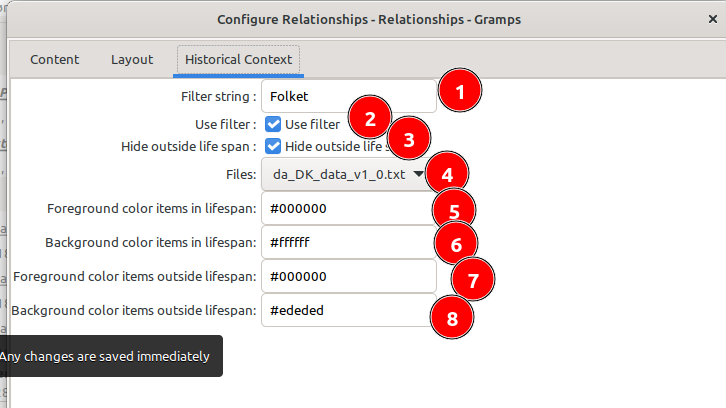
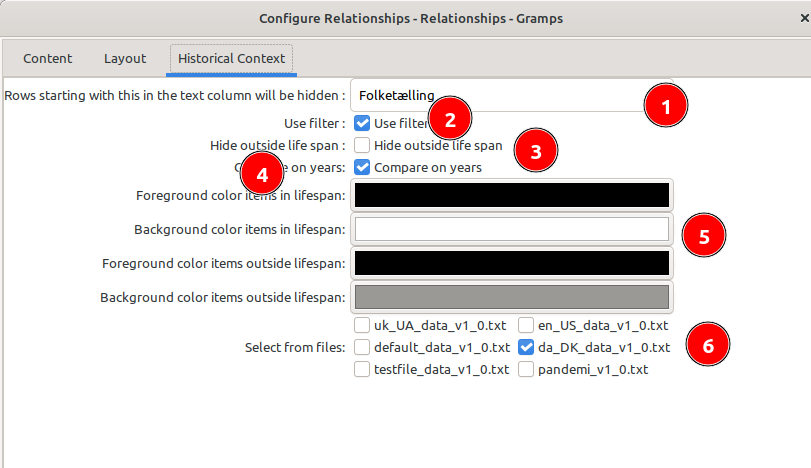
Cleaned up source code updated version number changed README.md file to reflect changes in setup Changed template.po to reflect new text strings updated da-local.po to reflect new template file

diff --git a/HistContext.py b/HistContext.py
@@ -39,18 +39,19 @@ from gramps.gen.plug import Gramplet
 from gramps.gen.const import GRAMPS_LOCALE as glocale
 from gramps.gen.datehandler import parser
 from gramps.gen.lib.date import Today
+
 # from gramps.gen.utils.db import get_birth_or_fallback, get_death_or_fallback
 from gramps.gen.config import config as configman
 from gramps.gui.display import display_url
 from gramps.gui.dialog import ErrorDialog
 from gramps.gen.plug.menu import (
-    EnumeratedListOption,
     BooleanOption,
     StringOption,
     BooleanListOption,
     ColorOption,
 )
-#from gi.repository import Pango
+
+# from gi.repository import Pango
 
 gi.require_version("Gtk", "3.0")
 from gi.repository import Gtk
@@ -83,7 +84,7 @@ config.register("myopt.bg_sel_col", "#ffffff")
 config.register("myopt.fg_usel_col", "#000000")
 config.register("myopt.bg_usel_col", "#ededed")
 config.register("myopt.fl_ar", ["None"])
-config.register("myopt.use_year",True)
+config.register("myopt.use_year", True)
 
 
 class HistContext(Gramplet):
@@ -95,7 +96,7 @@ class HistContext(Gramplet):
 
     def init(self):
         local_log.info("--> dette var init")
-        self.gui.model = Gtk.ListStore(str, str, str, str, str)
+        #        self.gui.model = Gtk.ListStore(str, str, str, str, str)
         self.gui.WIDGET = self.build_gui()
         self.gui.get_container_widget().remove(self.gui.textview)
         self.gui.get_container_widget().add(self.gui.WIDGET)
@@ -109,7 +110,6 @@ class HistContext(Gramplet):
         """
 
         files = []
-        #        FileArr = {}
         self.opts = []
 
         name = _("Rows starting with this in the text column will be hidden ")
@@ -141,14 +141,9 @@ class HistContext(Gramplet):
         opt = BooleanListOption(_("Select from files"))
         for filnm in files:
             short_fil_name = os.path.basename(filnm)
-            bol_val = (short_fil_name in self.__fl_ar)
+            bol_val = short_fil_name in self.__fl_ar
             opt.add_button(os.path.basename(filnm), bol_val)
-        #            FileArr.setdefault(os.path.basename(filnm),filnm)
         self.opts.append(opt)
-        #       if self.dbstate.db.is_open():            5
-        #          for tag_handle in self.dbstate.db.get_tag_handles(sort_handles=True):
-        #             tag = self.dbstate.db.get_tag_from_handle(tag_handle)
-        #                tag_name = tag.get_name()
         list(map(self.add_option, self.opts))
 
     def save_options(self):
@@ -200,7 +195,6 @@ class HistContext(Gramplet):
         self.__fl_ar = config.get("myopt.fl_ar")
         if self.__fl_ar[0] == "None":
             self.__fl_ar[0] = os.path.basename(self.__sel_file)
-        local_log.info("2 stored array = %s", self.__fl_ar[0])
 
     def get_birth_year(self):
         """
@@ -220,45 +214,49 @@ class HistContext(Gramplet):
             if self.__use_year:
                 birthyear = date1.to_calendar("gregorian").get_year()
             else:
-                birthyear = str(date1).replace('-','')
+                birthyear = str(date1).replace("-", "")
         if date2:
             if self.__use_year:
                 deathyear = date2.to_calendar("gregorian").get_year()
             else:
-                deathyear = str(date2).replace('-','')
+                deathyear = str(date2).replace("-", "")
         local_log.info("Født: %s", birthyear)
         local_log.info("Død: %s", deathyear)
         return birthyear, deathyear
-    
-    def find_last_day(self,year_month):
-        day =  year_month+'-31'
+
+    def find_last_day(self, year_month):
+        """ "
+        Function wwhich returns the last day of a specific month.
+        """
+        day = year_month + "-31"
         tst_date = parser.parse(day)
         if not tst_date.is_valid():
-            day = year_month+'-30'
+            day = year_month + "-30"
             tst_date = parser.parse(day)
             if not tst_date.is_valid():
-                day = year_month+'-29'
+                day = year_month + "-29"
                 tst_date = parser.parse(day)
                 if not tst_date.is_valid():
-                    day = year_month+'-28'
+                    day = year_month + "-28"
         return day
-    
-    def normalize_date(self, datest,dont_change_valid_dates,start_date):
+
+    def normalize_date(self, datest, dont_change_valid_dates, start_date):
         """
         function that returns a date in the format we want
         displays an error and sets today as day, if datest is not valid
+        also used for returning a date in a sortable fasion
         """
-        if len(datest) == 4 and  not self.__use_year:
+        if len(datest) == 4 and not self.__use_year:
             if start_date:
-                datest = datest+'-01-01'
+                datest = datest + "-01-01"
             else:
-                datest = datest +'-12-31'
-        if len(datest) == 7 and  not self.__use_year:
+                datest = datest + "-12-31"
+        if len(datest) == 7 and not self.__use_year:
             if start_date:
-                datest = datest+'-01'
+                datest = datest + "-01"
             else:
                 datest = self.find_last_day(datest)
-                local_log.info("====> 4 %s ",datest)
+                local_log.info("====> 4 %s ", datest)
         if datest.upper() == "TODAY":
             date1 = Today()
             datest = str(date1)
@@ -266,8 +264,8 @@ class HistContext(Gramplet):
             date1 = parser.parse(datest)
         if not date1.is_valid():
             if self.__show_error:
-                errormessage = (_("Invalid date "+datest))
-                errormessage = errormessage +(_(" in line: "))+str(self.linenbr) 
+                errormessage = _("Invalid date " + datest)
+                errormessage = errormessage + (_(" in line: ")) + str(self.linenbr)
                 ErrorDialog(_("Error:"), errormessage)
             self.__show_error = False
             date1 = Today()
@@ -276,8 +274,6 @@ class HistContext(Gramplet):
             else:
                 datest = str(date1)
 
-#            today_d, today_m, today_y = date1.to_calendar("gregorian").get_dmy()
-#            datest = today_y+'-'+today_m+'-'+today_d
         if self.__use_year:
             new_datest = str(date1.to_calendar("gregorian").get_year())
         else:
@@ -285,12 +281,11 @@ class HistContext(Gramplet):
                 new_datest = datest
             else:
                 new_datest = parser.parse(datest)
-        self.sort_date = str(new_datest).replace("-","")
+        self.sort_date = str(new_datest).replace("-", "")
         if dont_change_valid_dates and not self.__use_year:
             return datest
         else:
             return new_datest
-        
 
     def load_file(self, flnm):
         """
@@ -316,21 +311,21 @@ class HistContext(Gramplet):
                         errormessage = str(self.linenbr) + errormessage
                         ErrorDialog(_("Error:"), errormessage)
                 else:
-                    words[0] = self.normalize_date(words[0],True,True)
+                    words[0] = self.normalize_date(words[0], True, True)
                     local_sort_date = self.sort_date
-                    words[1] = self.normalize_date(words[1],True,False)
+                    words[1] = self.normalize_date(words[1], True, False)
                     if words[1] == "0":
-                      words[1] = ""
+                        words[1] = ""
                     words[2] = words[2].replace('"', "")
-                    begin_year = str(self.normalize_date(words[0],False,True))
+                    begin_year = str(self.normalize_date(words[0], False, True))
                     local_sort_date = self.sort_date
 
                     if words[1] == "":
-                        end_year = str(self.normalize_date(words[0],False,False))  
+                        end_year = str(self.normalize_date(words[0], False, False))
                     else:
-                        end_year = str(self.normalize_date(words[1],False,False))
-                    begin_year = begin_year.replace('-','')
-                    end_year = end_year.replace('-','')
+                        end_year = str(self.normalize_date(words[1], False, False))
+                    begin_year = begin_year.replace("-", "")
+                    end_year = end_year.replace("-", "")
                     if (
                         (int(begin_year) >= int(birthyear))
                         and (int(begin_year) <= int(deathyear))
@@ -390,7 +385,6 @@ class HistContext(Gramplet):
         local_log.info("Active changed")
         self.update()
 
-    #    def act(self, tree_view, path, column):
     def act(self, _tree_view, path, _column):
         """
         Called when the user double-click a row
@@ -411,20 +405,20 @@ class HistContext(Gramplet):
         tip = _("Double click row to follow link")
         self.set_tooltip(tip)
         # pylint: disable=attribute-defined-outside-init
-        self.model = Gtk.ListStore(str, str, str, str, str, str,str)
+        # define array from_date, to_date, Eventsdescription, link to internet, sort_date, foreground_colour, backgroud_colour
+        # Only first three comlumns are visible
+        self.model = Gtk.ListStore(str, str, str, str, str, str, str)
         top = Gtk.TreeView()
         top.connect("row-activated", self.act)
-#        renderer = Gtk.CellRendererText()
-#        renderer.set_property("ellipsize", Pango.EllipsizeMode.END)
         renderer = Gtk.CellRendererText()
 
         column = Gtk.TreeViewColumn(
             _("From"), renderer, text=0, foreground=5, background=6
         )
-#        column.set_expand(False)
-#        column.set_resizable(True)
-#        column.set_sizing(Gtk.TreeViewColumnSizing.FIXED)
-#        column.set_fixed_width(50)
+        #        column.set_expand(False)
+        #        column.set_resizable(True)
+        #        column.set_sizing(Gtk.TreeViewColumnSizing.FIXED)
+        #        column.set_fixed_width(50)
         column.set_sort_column_id(0)
         column.set_sizing(Gtk.TreeViewColumnSizing.AUTOSIZE)
         top.append_column(column)
@@ -433,7 +427,7 @@ class HistContext(Gramplet):
             _("To"), renderer, text=1, foreground=5, background=6
         )
         column.set_sort_column_id(1)
-#        column.set_fixed_width(50)
+        #        column.set_fixed_width(50)
         column.set_sizing(Gtk.TreeViewColumnSizing.AUTOSIZE)
 
         top.append_column(column)
@@ -445,12 +439,12 @@ class HistContext(Gramplet):
         column.set_sizing(Gtk.TreeViewColumnSizing.AUTOSIZE)
         top.append_column(column)
 
-        column = Gtk.TreeViewColumn(
-            _("Dato"), renderer, text=3, foreground=5, background=6
-        )
-#        column.set_sort_column_id(3)
-#        column.set_sizing(Gtk.TreeViewColumnSizing.AUTOSIZE)
-#        top.append_column(column)
+        # column = Gtk.TreeViewColumn(
+        #    _("Dato"), renderer, text=3, foreground=5, background=6
+        # )
+        #        column.set_sort_column_id(3)
+        #        column.set_sizing(Gtk.TreeViewColumnSizing.AUTOSIZE)
+        #        top.append_column(column)
 
         #        column = Gtk.TreeViewColumn(_('Link'), renderer, text=3,foreground=4,background=5)
         #        column.set_sort_column_id(3)

diff --git a/HistContext.gpr.py b/HistContext.gpr.py
@@ -4,7 +4,7 @@ register(
     name=_("Historical Context"),
     description=_("Lists relevant historical events during the lifetime of a Person"),
     status=STABLE,
-    version="0.2.13",
+    version="0.2.15",
     fname="HistContext.py",
     height=20,
     detached_width=510,

diff --git a/README.md b/README.md
@@ -19,12 +19,16 @@ example:
 
 1789;1797;George Washington;https://en.wikipedia.org/wiki/George_Washington
 
+Date can be written in a variety of formats, including "Today" for ongoing events.
+
 The file name is `<locale>_data_v1_0.txt `e.g. `da_DK_data_v1_0.txt` for Denmark
 Currently only four files are provided, `da_DK_data_v1_0.txt` and `en_US_data_v1_0.txt` which simply is a list of American presidents.
 
 The third is `deafult_data_v1_0.txt`which will be used, if there isn't any data file for your language.
 
 The fourth file is `custom_v1_0.txt`which can be used for adding your own data, which will be merged into the view.
+
+You can add and use any CSV delimited file, as long as it ends with '_v1_0.txt´
 
 ## Options
 
@@ -38,9 +42,10 @@ The options can be accessed by the settings for the view:
 
 2 If you check this box, your filter will be active
 
-3 This checkbox decides whether you will see all events or only those in your cative persons life span
+3 This checkbox decides whether you will see all events or only those in your active persons life span
 
-4 File name for the file, which holds the events. If you have created a custom file named  `custom_v1_0.txt` this will be merged into the list.
+4. Whether you will use full dates or full years for comparison between the event and your active persons life span
+
 
 5 The foreground color for lines within a persons life span. There is a lot of applications, which let you convert a chosen colour to a HTML text string. I use KcolorChooser
 
@@ -50,3 +55,4 @@ The options can be accessed by the settings for the view:
 
 8 The background colour for lines outside the active persons life span
 
+9 Files you choose to include in the timeline, Any files ending in _data_v1_0.txt will be listed, but it needs to hold data in the above format, in order to work.
